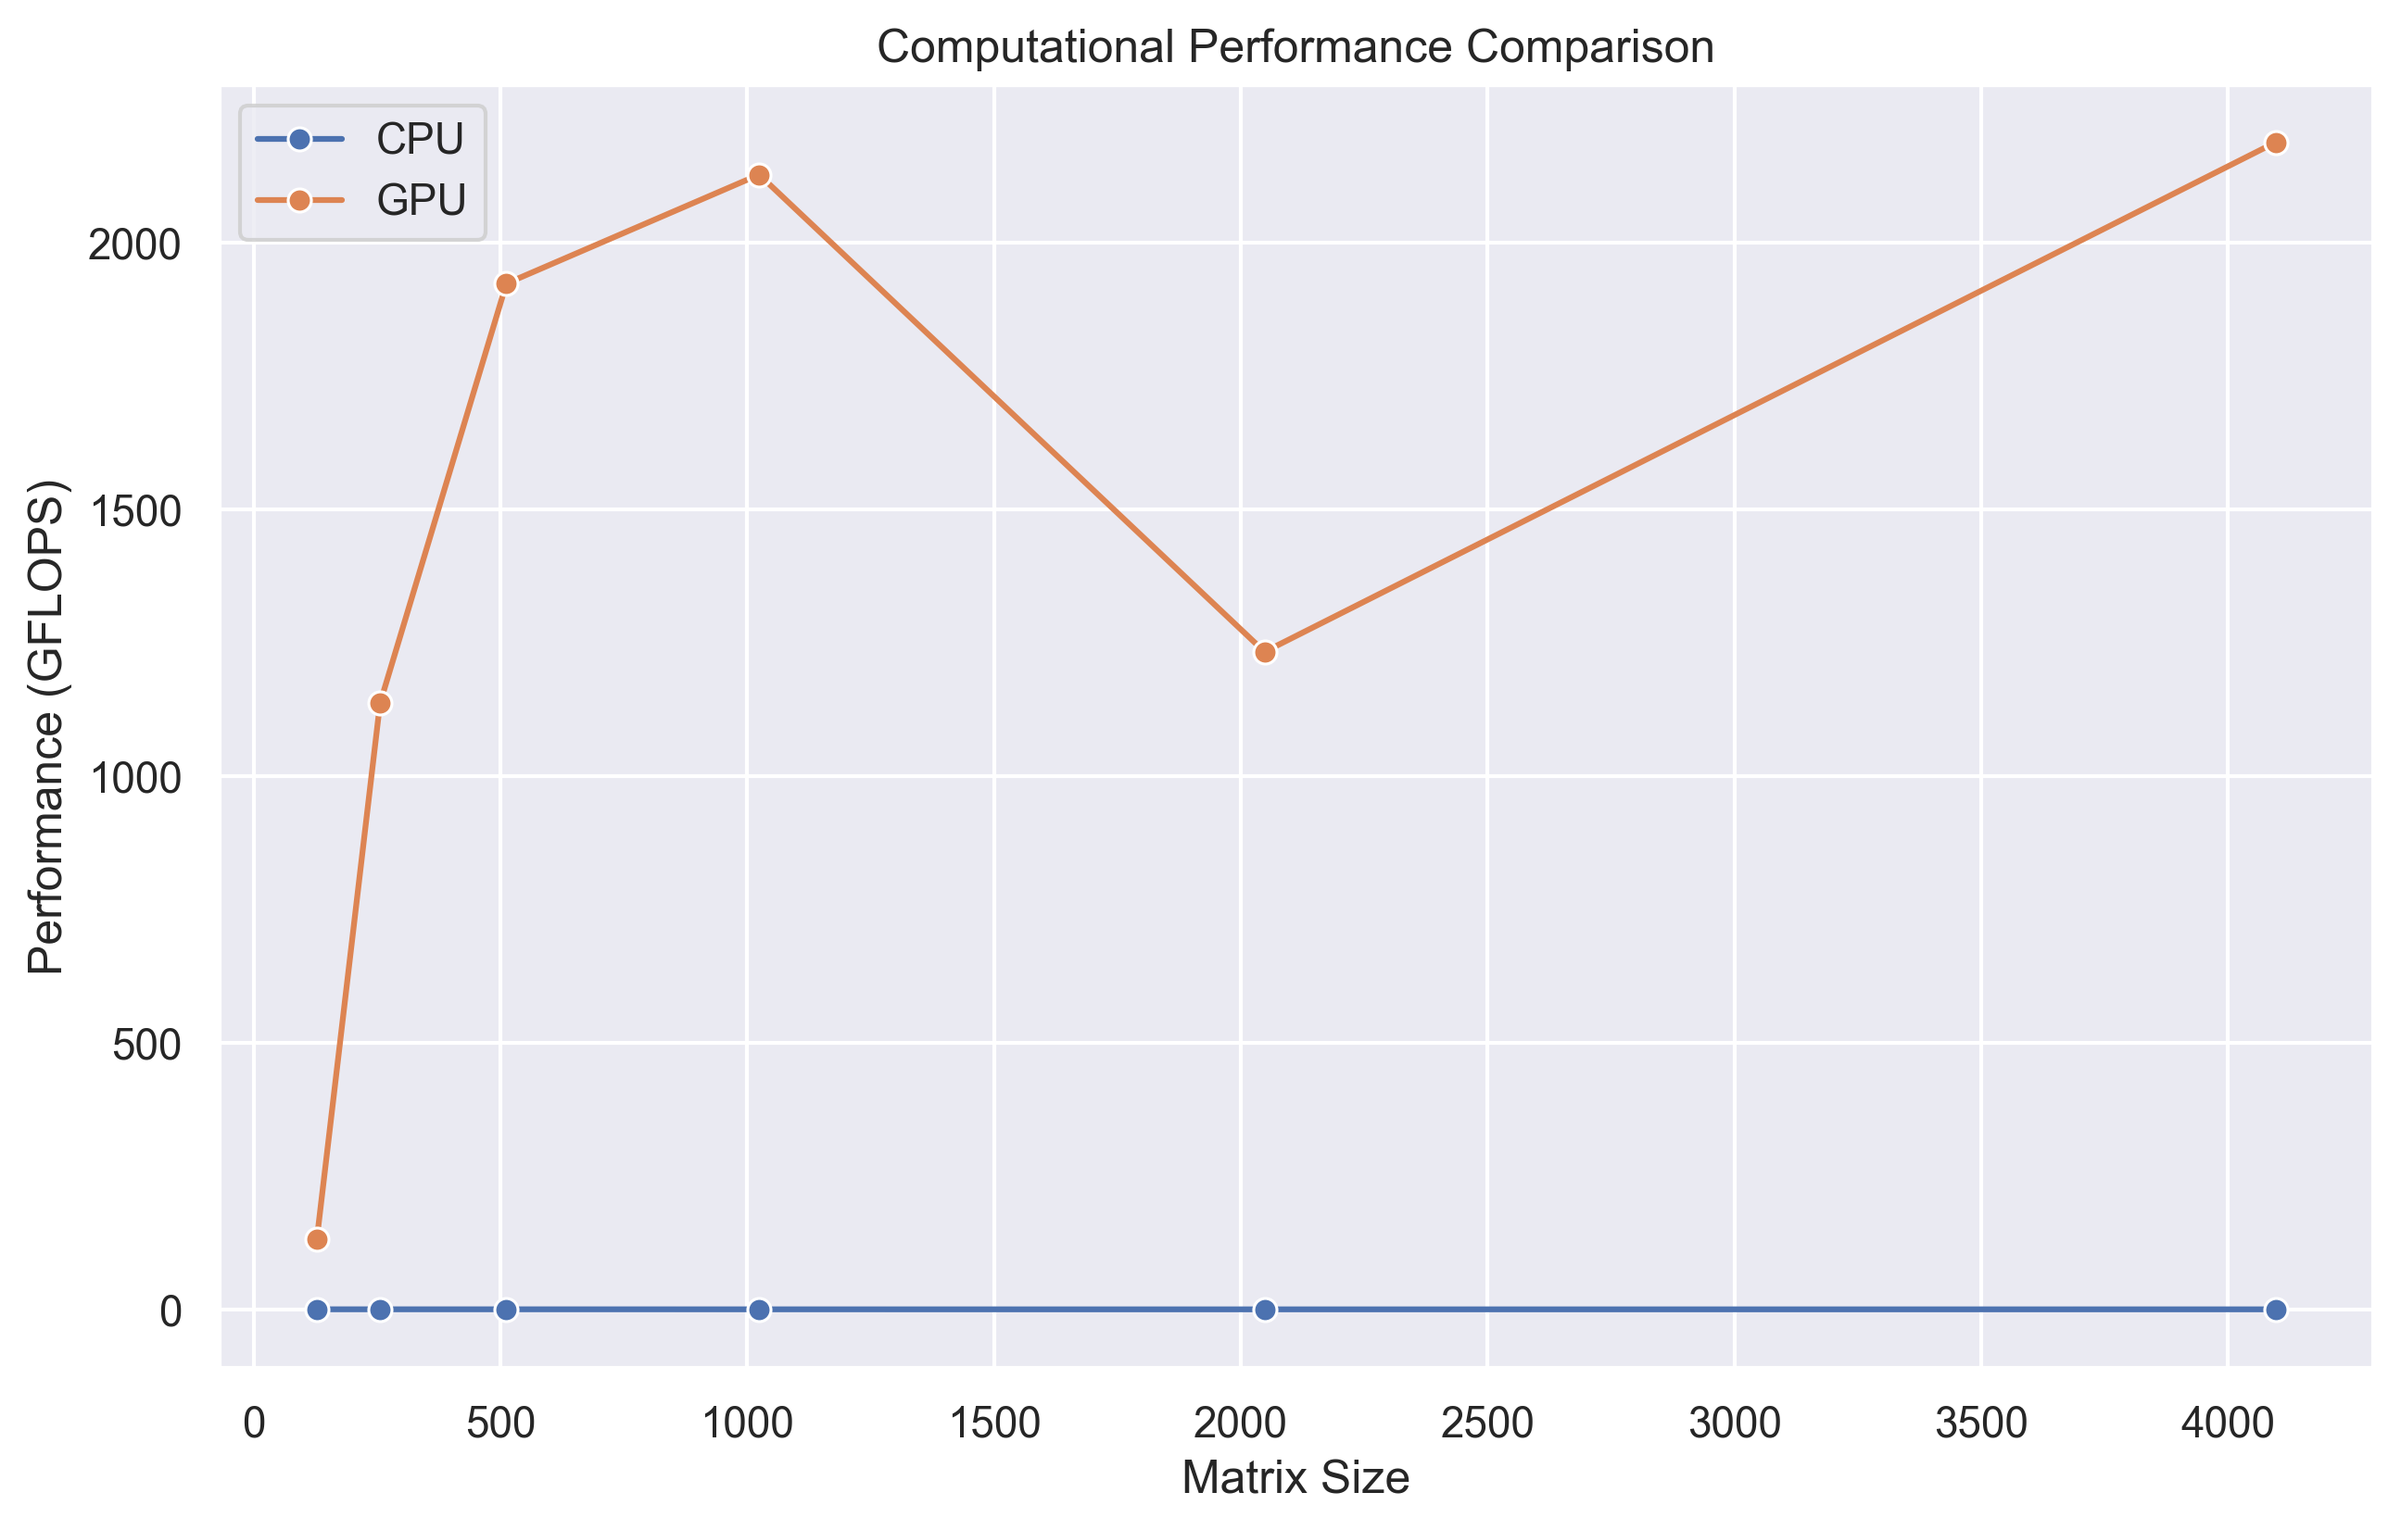
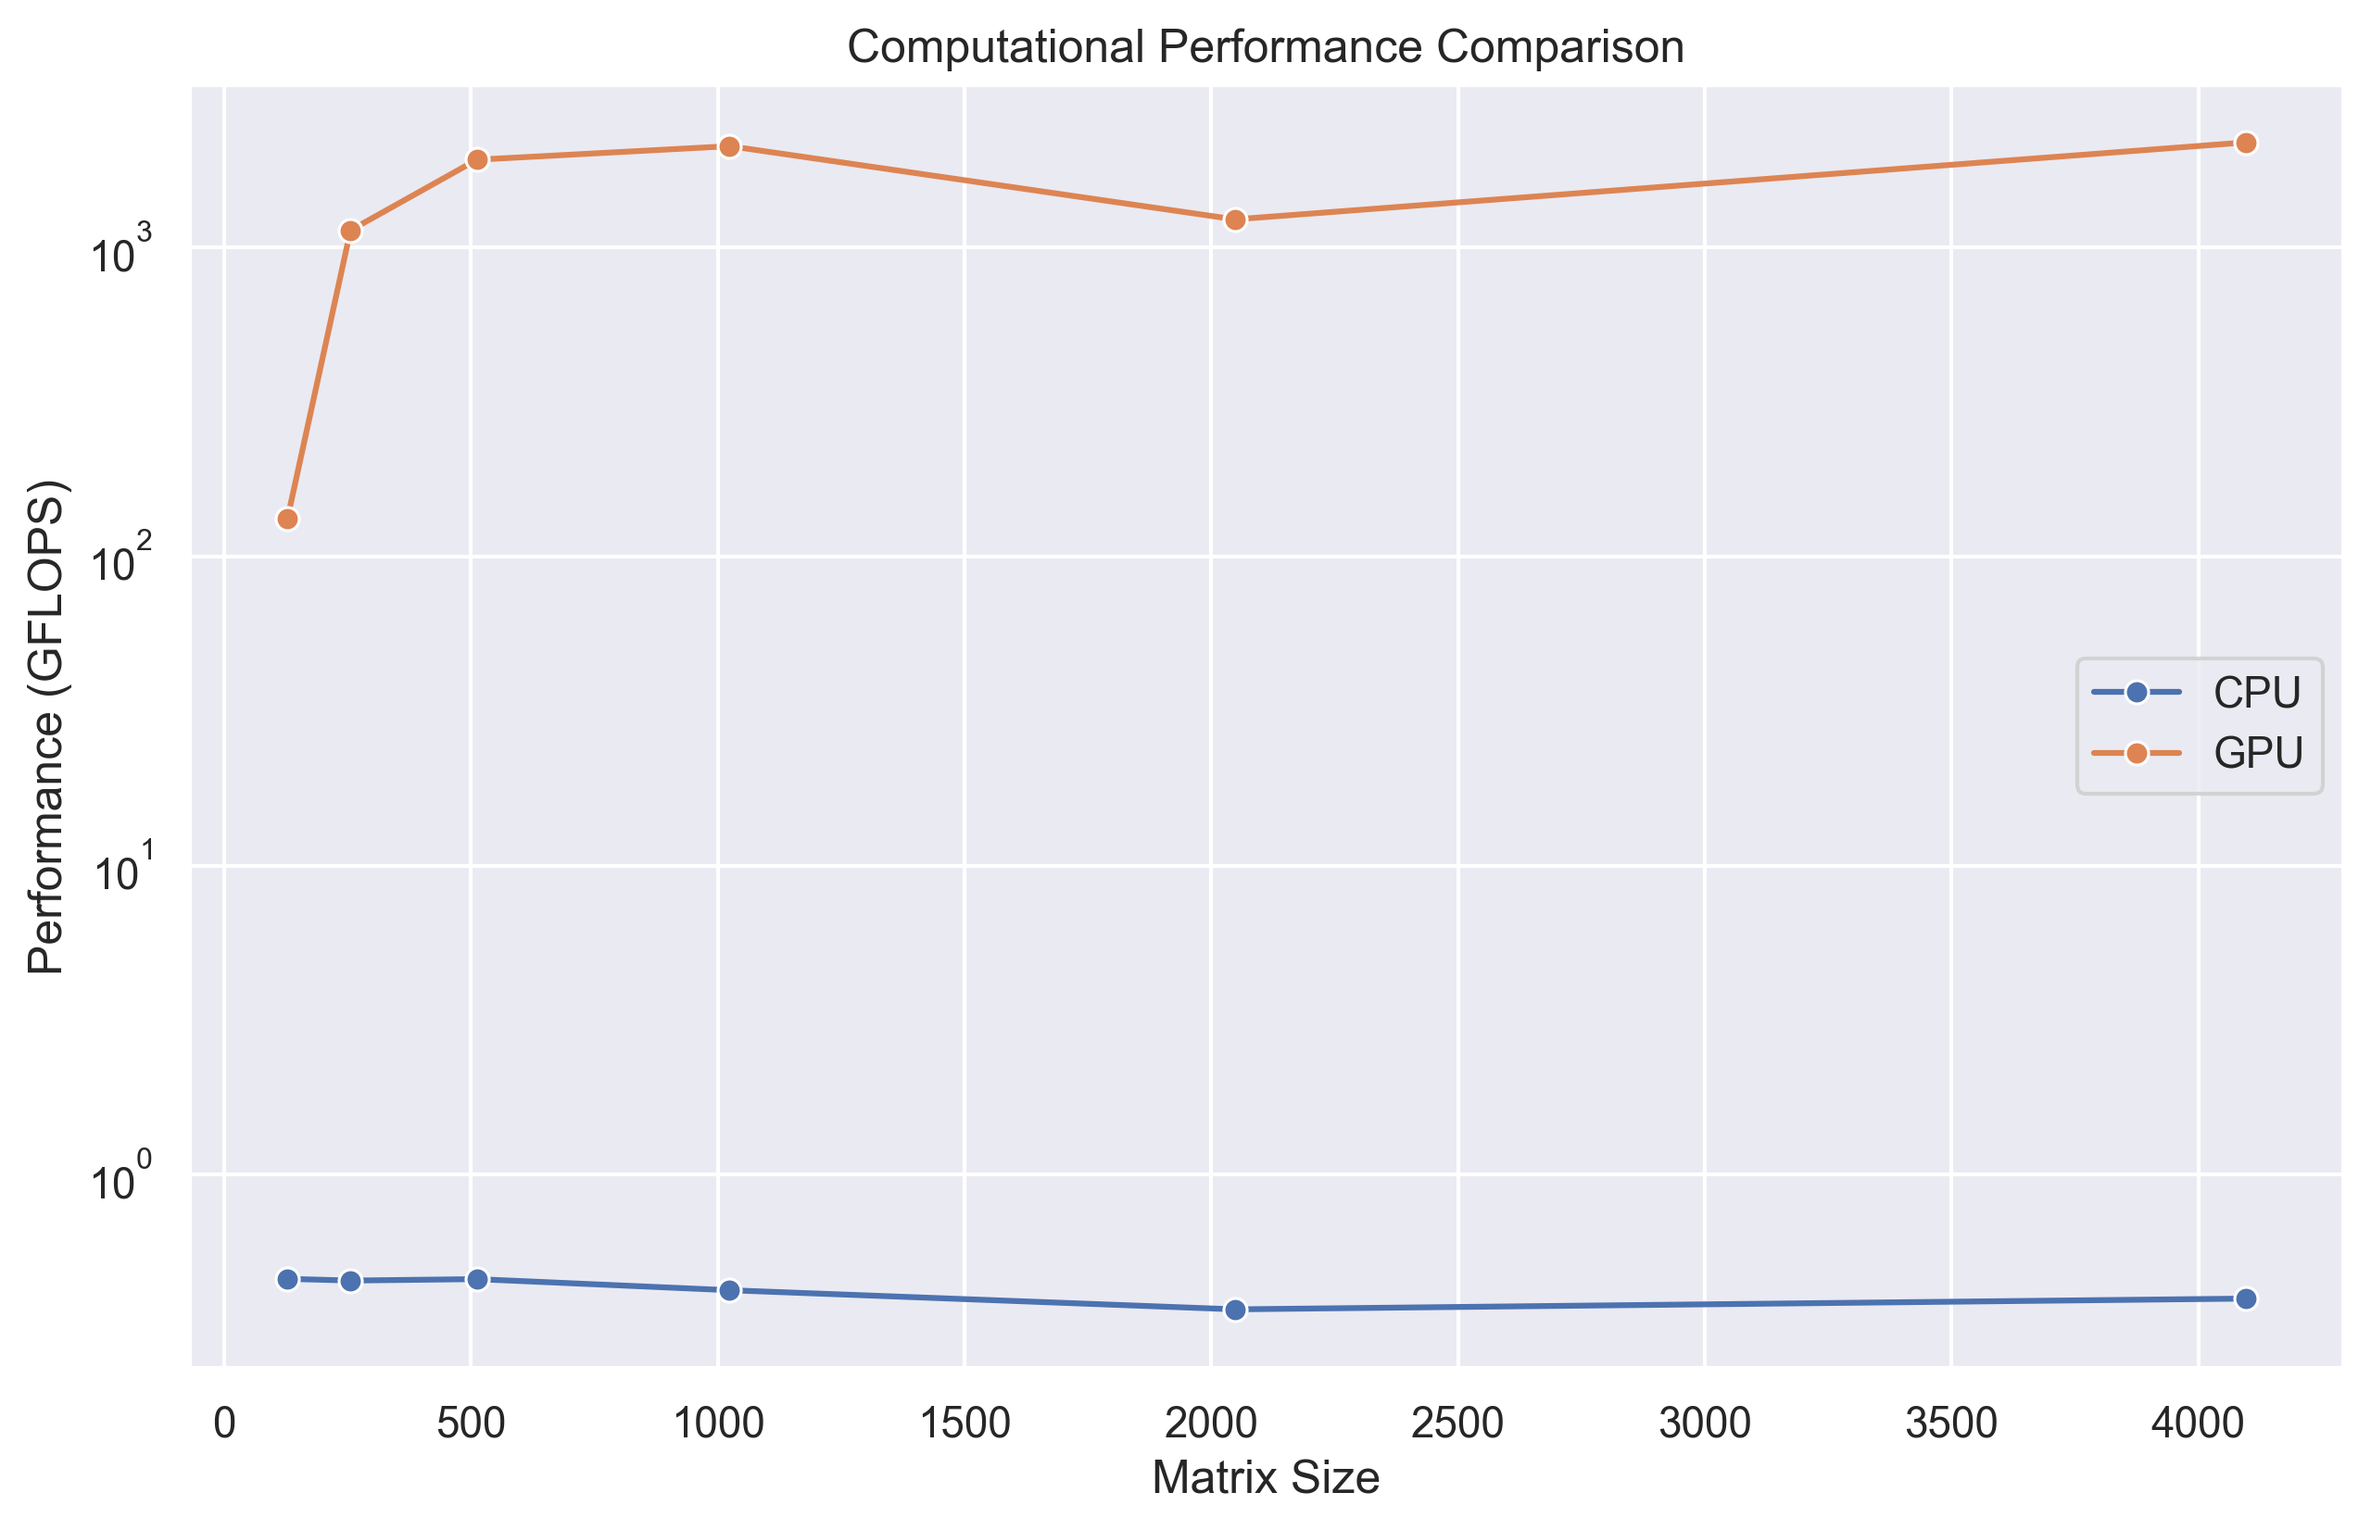
added 1 more example

diff --git a/main.cpp b/main.cpp
@@ -120,7 +120,7 @@ void saveResults(const std::string& filename, int N, const CPUMetrics& cpu_metri
 }
 
 int main() {
-    std::vector<int> sizes = {128, 256, 512, 1024, 2048, 4096};
+    std::vector<int> sizes = {128, 256, 512, 1024, 2048, 4096, 8192};
     const std::string results_file = "results.csv";
     
     for (int N : sizes) {

diff --git a/viz.py b/viz.py
@@ -43,6 +43,7 @@ sns.lineplot(data=data, x='Matrix_Size', y='GPU_GFLOPS', marker='o', label='GPU'
 plt.xlabel('Matrix Size')
 plt.ylabel('Performance (GFLOPS)')
 plt.title('Computational Performance Comparison')
+plt.yscale('log')
 plt.savefig('images/gflops_comparison.png', dpi=300, bbox_inches='tight')
 plt.close()
 
